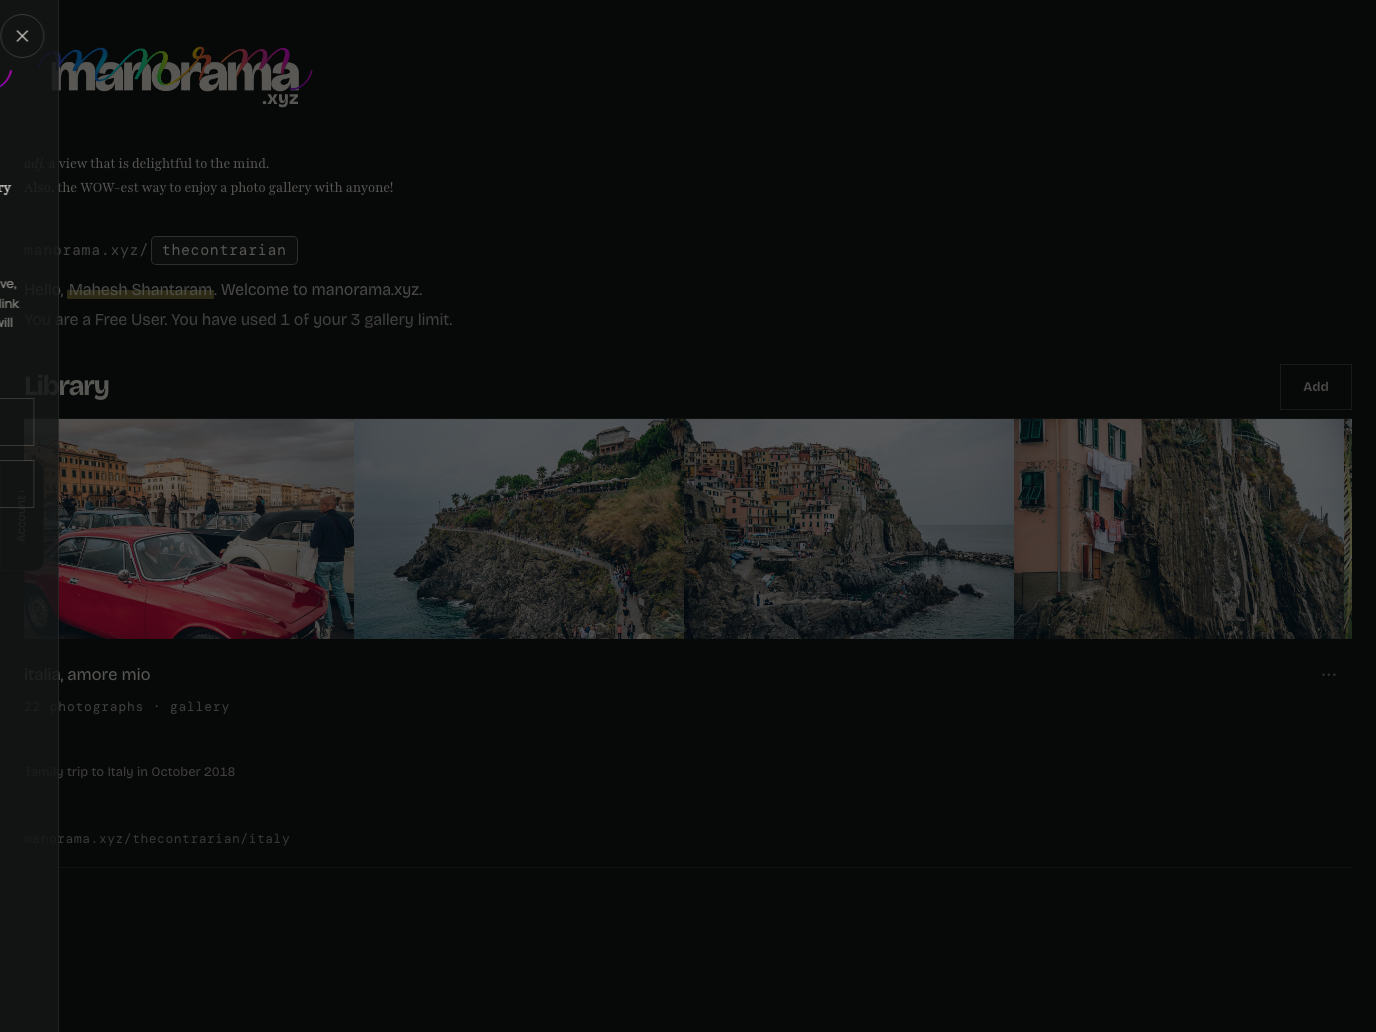
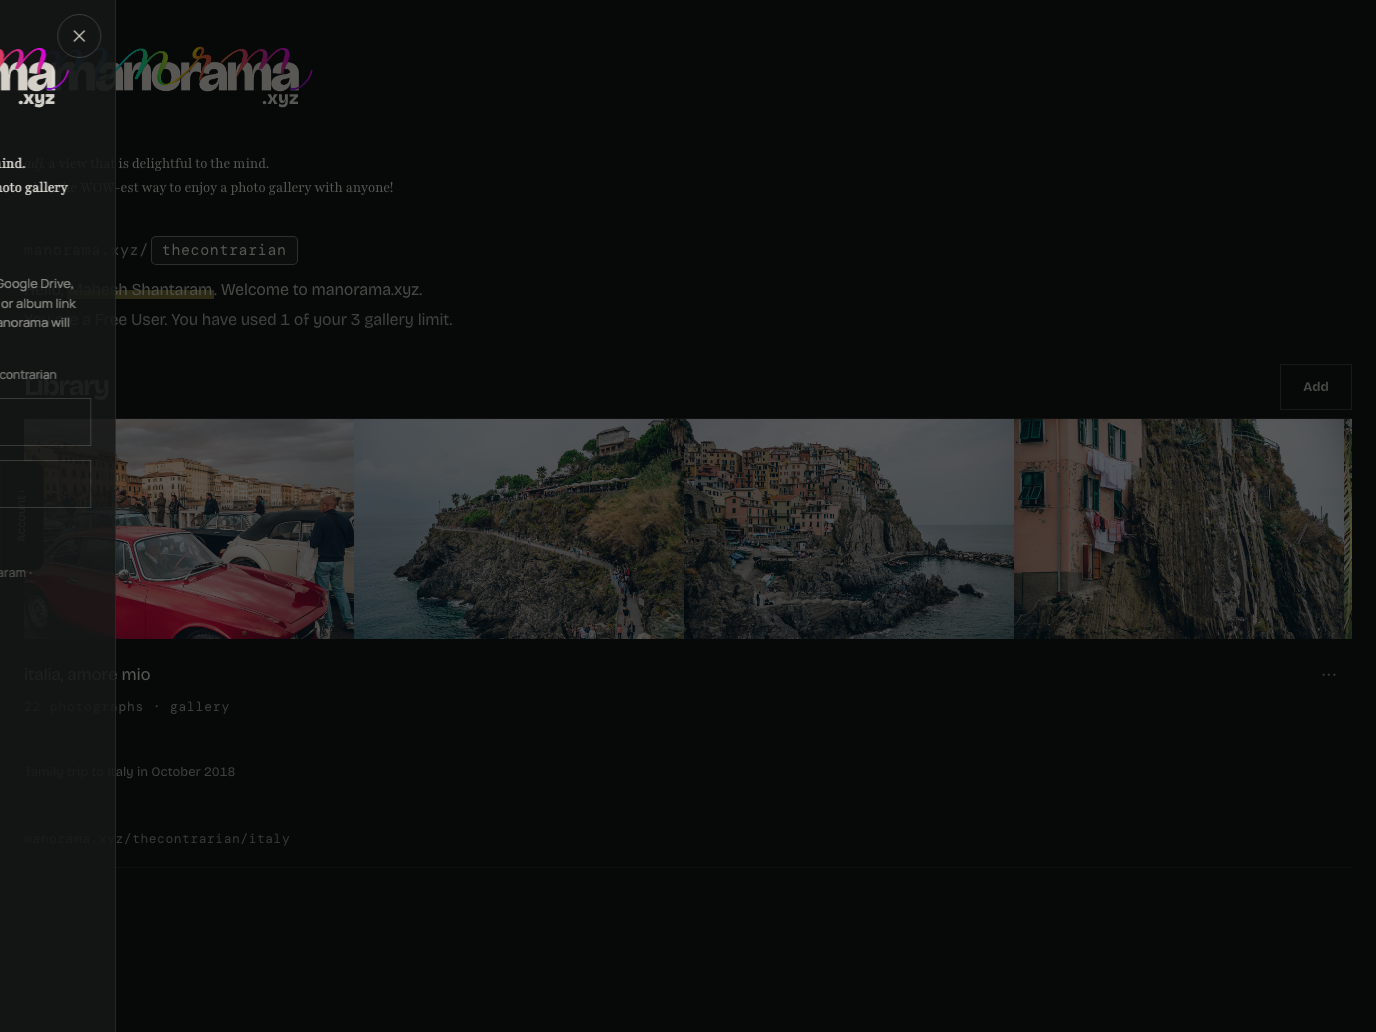
fix(redesign): clear sticky add announcements, bound selector strip, surface editor and remove errors
- Admin add: clear the 'Adding gallery...' announcement on the 403 and
  error paths; only success and the already-added path keep an
  announcement.
- Selector strip: the 100vw bleed pushed the editor strip past the card
  below 820px; constrain it like the desktop override.
- Local details: remove failures were announced only under the sheet;
  show the note inside the open confirmation.
- Reorder editor: block close during the reset settle via a synchronous
  ref, retain and clear the settle timer on unmount, and scroll plus
  refocus the held photograph after keyboard moves.
- Library: re-run the pending quick-add when an ordinary import finishes
  (quickAddBusy dependency); leave Settings before opening the picker so
  GlobalView mounts immediately.
- Library rail: bound the zero-width overscan fallback to the device
  width instead of the gallery's total width.
- Privacy policy: correct the source-of-truth comments; the package file
  is the wording source both platforms render.
- Vault spec: assert the complete saved order against the full key
  sequence collected across the editor window.
- Account tests: canRetainAnotherGallery now verified against
  nextGalleryRetentionFor across both tiers.

Changed region(s): [[0.0, 0.2481, 0.0938, 0.6202], [0.0, 0.031, 0.0938, 0.124], [0.0, 0.155, 0.0938, 0.186]]

diff --git a/native/islands/GalleryEditor.tsx b/native/islands/GalleryEditor.tsx
@@ -94,6 +94,10 @@ export default function GalleryEditor({ owner, slug, title, apiBase, onClose, on
 
   const sectionRef = useRef<HTMLElement | null>(null)
   const scrollRef = useRef<HTMLDivElement | null>(null)
+  // Settling reads must be synchronous: a back press between setSettling and
+  // the rerender would otherwise slip past both close guards.
+  const settlingRef = useRef(false)
+  const settleTimerRef = useRef<number | undefined>(undefined)
   const onCloseRef = useRef(onClose)
   onCloseRef.current = onClose
   const onSavedRef = useRef(onSaved)
@@ -154,7 +158,7 @@ export default function GalleryEditor({ owner, slug, title, apiBase, onClose, on
    *  overlay stack) and the shell's Android back. Unsaved edits open the
    *  confirmation instead of closing. */
   const requestClose = () => {
-    if (confirmRef.current) return
+    if (confirmRef.current || settlingRef.current) return
     if (dirtyRef.current) setConfirmOpen(true)
     else onCloseRef.current()
   }
@@ -164,13 +168,17 @@ export default function GalleryEditor({ owner, slug, title, apiBase, onClose, on
   /** The dirty guard the shell asks on Android back. True means the back press
    *  belongs to the editor and must be swallowed. */
   useEffect(() => installReorderCloseGuard(() => {
-    if (confirmRef.current) return true
+    if (confirmRef.current || settlingRef.current) return true
     if (dirtyRef.current) {
       setConfirmOpen(true)
       return true
     }
     return false
   }), [])
+
+  // The settle timer outlives a render; clear it if the editor unmounts first
+  // so a delayed onClose cannot fire after teardown.
+  useEffect(() => () => window.clearTimeout(settleTimerRef.current), [])
 
   /** The editor is itself a modal: focus lands on it, Tab is trapped inside
    *  by the overlay stack, and Escape goes through the same dirty guard. */
@@ -246,11 +254,15 @@ export default function GalleryEditor({ owner, slug, title, apiBase, onClose, on
   const reset = () => {
     const current = sessionRef.current
     if (!current || busy || settling) return
+    settlingRef.current = true
     setSettling(true)
     setSession(discardReorder(current))
     setDropTarget(null)
     setNote('Back to the saved order.')
-    window.setTimeout(() => onCloseRef.current(), SETTLE_MS)
+    settleTimerRef.current = window.setTimeout(() => {
+      settlingRef.current = false
+      onCloseRef.current()
+    }, SETTLE_MS)
   }
 
   const layout = useMemo(() => {
@@ -298,6 +310,16 @@ export default function GalleryEditor({ owner, slug, title, apiBase, onClose, on
     const movedAt = next.items.findIndex((item) => item.id === current.heldId)
     const moved = next.items[movedAt]
     if (moved) setNote(`Moved “${moved.label}” to position ${movedAt + 1} of ${next.items.length}.`)
+    // Keep the held photograph visible and focused: the destination row can
+    // sit outside the mounted window, and a remounting row drops focus.
+    const nextLayout = layoutPhotoRows(next.items, viewport.width, rowHeight)
+    const targetRow = nextLayout.rows.find((row) => row.cells.some((cell) => cell.item.id === current.heldId))
+    requestAnimationFrame(() => {
+      if (targetRow && scrollRef.current) scrollRef.current.scrollTop = targetRow.top
+      requestAnimationFrame(() => {
+        sectionRef.current?.querySelector<HTMLElement>(`[data-photo="${current.heldId}"]`)?.focus({ preventScroll: true })
+      })
+    })
   }
 
   const dragStart = (photo: EditorPhoto) => (event: DragEvent) => {

diff --git a/native-vault-controls.playwright.ts b/native-vault-controls.playwright.ts
@@ -124,6 +124,20 @@ for (const viewport of [{ width: 375, height: 812 }, { width: 1376, height: 1032
     // orderKeys (ref ?? filename ?? id), which is what the recorded PATCH
     // must match.
     const orderBefore = await cells.evaluateAll((nodes) => nodes.map((node) => node.getAttribute('data-order-key')))
+    // The PATCH writes the whole session order but the editor only mounts a
+    // window; walk the scroll container to collect every order key.
+    const orderAll: (string | null)[] = [...orderBefore]
+    const scroller = editor.locator('[data-editor-scroll]')
+    for (let guard = 0; guard < 40; guard += 1) {
+      const collected = orderAll.length
+      await scroller.evaluate((node) => { node.scrollTop += node.clientHeight })
+      await page.waitForTimeout(120)
+      const mounted = await cells.evaluateAll((nodes) => nodes.map((node) => node.getAttribute('data-order-key')))
+      for (const key of mounted) if (!orderAll.includes(key)) orderAll.push(key)
+      if (orderAll.length === collected) break
+    }
+    await scroller.evaluate((node) => { node.scrollTop = 0 })
+    await expect(cells.first()).toBeVisible()
     await page.screenshot({ path: `demo-captures/admin-gallery-focus/native-${viewport.width}-editor.png`, fullPage: false })
     await cells.nth(cellCount - 1).click()
     await expect(cells.nth(cellCount - 1)).toHaveClass(/is-active/)
@@ -142,10 +156,10 @@ for (const viewport of [{ width: 375, height: 812 }, { width: 1376, height: 1032
     }).__capturePatch ?? [])
     const lastWrite = saved.at(-1)
     expect(lastWrite?.url).toContain('/api/galleries/')
-    expect(lastWrite?.body.order).toHaveLength(22)
-    expect(new Set(lastWrite?.body.order).size).toBe(22)
-    expect(lastWrite?.body.order?.[0]).toBe(orderBefore[cellCount - 1])
-    for (const key of orderBefore) expect(lastWrite?.body.order).toContain(key)
+    // The click-tap move lifted the last mounted cell to position 1; assert
+    // the complete saved sequence, not just its membership.
+    const heldKey = orderBefore[cellCount - 1]
+    expect(lastWrite?.body.order).toEqual([heldKey, ...orderAll.filter((key) => key !== heldKey)])
     await editor.locator('[aria-label="Close the editor"]').click()
     await expect(editor).toHaveCount(0)
 

diff --git a/packages/core/account.test.ts b/packages/core/account.test.ts
@@ -1,6 +1,7 @@
 import { describe, expect, test } from 'bun:test'
 import {
   AUTH_PROVIDERS,
+  canRetainAnotherGallery,
   countRetainedGalleries,
   FREE_RETAINED_LIMIT,
   FREE_RETENTION_DISCLOSURE,
@@ -132,10 +133,16 @@ describe('retained-gallery caps', () => {
   })
 
   test('canRetainAnotherGallery agrees with nextGalleryRetentionFor', () => {
-    expect(nextGalleryRetentionFor('free', 2).allowed).toBe(true)
-    expect(nextGalleryRetentionFor('free', 3).allowed).toBe(true)
-    expect(nextGalleryRetentionFor('pro', 98).allowed).toBe(true)
-    expect(nextGalleryRetentionFor('pro', 99).allowed).toBe(false)
+    for (const tier of ['free', 'pro'] as const) {
+      for (const retained of [0, 1, 2, 3, 50, 98, 99, 100, 101]) {
+        const next = nextGalleryRetentionFor(tier, retained)
+        expect(canRetainAnotherGallery(tier, retained)).toBe(next.allowed && next.retention === 'retained')
+      }
+    }
+    // A free account past its retained limit can still add — the gallery
+    // becomes pipeline, which is not a retained slot.
+    expect(nextGalleryRetentionFor('free', FREE_RETAINED_LIMIT)).toEqual({ allowed: true, retention: 'pipeline' })
+    expect(canRetainAnotherGallery('free', FREE_RETAINED_LIMIT)).toBe(false)
   })
 
   test('countRetainedGalleries treats missing retention as retained', () => {

diff --git a/native/islands/GalleryList.tsx b/native/islands/GalleryList.tsx
@@ -378,7 +378,7 @@ export default function GalleryList({ apiBase, owner, slug, deepLinkSelection, o
         setQuickAddBusy(false)
         setAccountRevision((revision) => revision + 1)
       })
-  }, [base, pendingQuickAdd, signedIn])
+  }, [base, pendingQuickAdd, quickAddBusy, signedIn])
 
   useEffect(() => {
     if (!selection.owner || !selection.slug || loadPolicy === null || galleryPolicies === null) return
@@ -1433,7 +1433,7 @@ export default function GalleryList({ apiBase, owner, slug, deepLinkSelection, o
       globalViewEnabled={globalViewEnabled}
       globalViewBusy={globalViewSaving}
       onGlobalView={(enabled) => { void changeGlobalView(enabled) }}
-      onOpenPicker={() => setGlobalViewOpen(true)}
+      onOpenPicker={() => { dispatchNav({ type: 'back' }); setGlobalViewOpen(true) }}
       deviceGalleries={standaloneDeviceGalleries}
       onOpenDeviceGallery={(gallery) => {
         if (gallery.publicGallerySlug && ownerSlug) enterGallery({ owner: ownerSlug, slug: gallery.publicGallerySlug })

diff --git a/app/islands/Admin.tsx b/app/islands/Admin.tsx
@@ -617,7 +617,7 @@ export default function Admin({ galleries: initialGalleries, owner, ownerName, p
         return
       }
       if (!response.ok || !payload.gallery) {
-        if (response.status === 403) { setAddError(payload.error || 'That gallery could not be added'); return }
+        if (response.status === 403) { announce(''); setAddError(payload.error || 'That gallery could not be added'); return }
         throw new Error(payload.error || 'That gallery could not be added')
       }
       setGalleries((previous) => sortRecent([...previous.filter((item) => item.slug !== payload.gallery!.slug), payload.gallery!]))
@@ -627,6 +627,7 @@ export default function Admin({ galleries: initialGalleries, owner, ownerName, p
       scrollToGalleryCard(payload.gallery.slug)
       announce('Done! ' + payload.gallery.title + ' is at the top.')
     } catch (error) {
+      announce('')
       setAddError(friendlySourceError(error))
     } finally {
       setBusy(false)

diff --git a/app/components/PrivacyPolicy.tsx b/app/components/PrivacyPolicy.tsx
@@ -4,9 +4,12 @@ import type { PrivacyInline } from '../../packages/core/privacy-policy'
 /**
  * The shared privacy-policy renderer. It is the document body only — the
  * surrounding chrome (page shell, native Back header) belongs to each
- * platform's view. Content comes from `PRIVACY_POLICY`, which transcribes
- * `app/routes/privacy.tsx` verbatim, so every section, link, and the
- * effective date render identically everywhere.
+ * platform's view. Content comes from `PRIVACY_POLICY`, so every section,
+ * link, and the effective date render identically everywhere.
+ *
+ * `PRIVACY_POLICY` lives in `packages/core/privacy-policy.ts` — that file
+ * is the single source of the wording, and both platforms render it
+ * through this component.
  *
  * Platform seams stay as optional callbacks:
  * - Without `onOpenExternal`, links are plain anchors (the web behavior).

diff --git a/native/islands/LibraryRail.tsx b/native/islands/LibraryRail.tsx
@@ -165,7 +165,10 @@ export const LibraryRail = ({ galleryId, images, loader, title, onOpen }: Props)
         setRowHeight(measuredHeight)
         return
       }
-      const viewport = rail.clientWidth || layout.totalWidth
+      // Before layout the rail measures zero; falling back to totalWidth
+      // would mount every cell. Bound the overscan to the device width until
+      // a real measurement arrives.
+      const viewport = rail.clientWidth || window.innerWidth
       const left = rail.scrollLeft
       const start = Math.max(0, firstOffsetAt(layout.offsets, left - viewport))
       const end = Math.min(images.length - 1, firstOffsetAt(layout.offsets, left + viewport * 2))

diff --git a/packages/core/privacy-policy.ts b/packages/core/privacy-policy.ts
@@ -1,9 +1,8 @@
 /**
  * The privacy policy as platform-free structured data. This is the single
- * source the web and native renderers share; `app/routes/privacy.tsx`
- * remains the source of truth for the wording, and this file transcribes it
- * verbatim — no invented text, no rephrasing. When the policy changes, edit
- * the route first and mirror the wording here.
+ * source of the policy wording. The web route (`app/routes/privacy.tsx`) and
+ * the native Privacy view both render it through `PrivacyPolicy`. When the
+ * policy changes, edit the wording here and update the `updated` value.
  */
 
 export type PrivacyInline =

diff --git a/app/styles.css b/app/styles.css
@@ -808,6 +808,12 @@ body:has(.admin-page) { overflow: auto; overflow-x: clip; background: #111312; }
   .admin-page--selector .admin-gallery-strip-frame { width: 100%; margin-left: 0; }
 }
 
+/* The selector card is narrower than the viewport below 820px too: the
+   100vw bleed pushes the strip past the card's right edge there. */
+@media (max-width: 819.98px) {
+  .admin-page--selector .admin-gallery-strip-frame { width: 100%; margin-left: 0; }
+}
+
 /* The card no longer has a numbered index column. */
 .admin-gallery-card { grid-template-columns: minmax(0, 1fr) auto; }
 .admin-gallery-card-body { grid-column: 1; }

diff --git a/desktop/islands/LocalGalleryDetails.tsx b/desktop/islands/LocalGalleryDetails.tsx
@@ -163,6 +163,7 @@ export default function LocalGalleryDetails({
         dismissible={!locked}
       >
         <p>This removes only the catalogue entry for “{record.title}”. The original files on the memory card or folder are untouched.</p>
+        {note ? <p class="m-note" role="alert">{note}</p> : null}
         <div class="m-form-inline">
           <Button variant="destructive" disabled={locked} onClick={() => void remove()}>
             {busy === 'remove' ? 'Removing…' : 'Remove from Library'}
